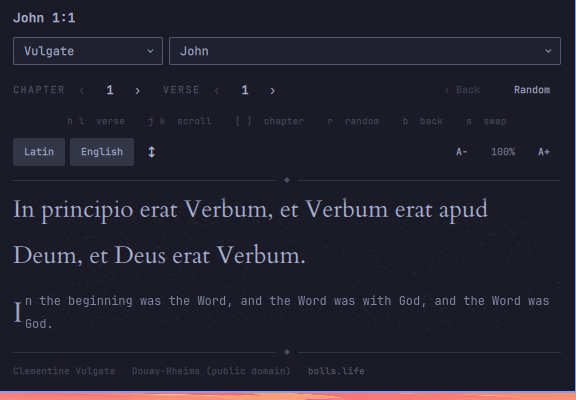
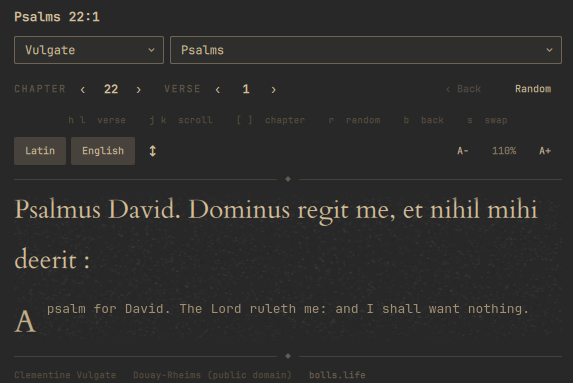
v2.6.0 — film-grain boil; fresh gallery
- The grain now re-scatters ~4×/second (over the slow drift) so the texture
  is visibly alive rather than just barely moving. Experimental — one Timer
  interval to tune.
- New screenshot set: the four corpora at different verses / zoom / theme
  (Isaiah, Matthew, Psalm 22, Al-Fatiha), and the theme gallery re-shot on
  Catppuccin / Nord / Kanagawa / Matte Black with different passages.
- manifest description now names all four corpora.

Claude-Session: https://claude.ai/code/session_01PoivGKMcuhRYmAzMxFYFkU

diff --git a/omarchy/Panel.qml b/omarchy/Panel.qml
@@ -1802,8 +1802,14 @@ Panel {
             onHeightChanged: requestPaint()
             Component.onCompleted: requestPaint()
 
-            // The paper never sits quite still — a very slow wander on two
-            // axes with different periods, plus a faint breath of opacity.
+            // Film-grain boil: re-scatter the speckle a few times a second so
+            // the texture is visibly alive, over a very slow two-axis drift.
+            Timer {
+              running: grain.visible
+              interval: 260
+              repeat: true
+              onTriggered: grain.requestPaint()
+            }
             transform: Translate { id: grainDrift }
             SequentialAnimation {
               running: grain.visible
@@ -1816,12 +1822,6 @@ Panel {
               loops: Animation.Infinite
               NumberAnimation { target: grainDrift; property: "y"; from: 6; to: -6; duration: 57000; easing.type: Easing.InOutSine }
               NumberAnimation { target: grainDrift; property: "y"; from: -6; to: 6; duration: 57000; easing.type: Easing.InOutSine }
-            }
-            SequentialAnimation on opacity {
-              running: grain.visible
-              loops: Animation.Infinite
-              NumberAnimation { from: 1.0; to: 0.82; duration: 9000; easing.type: Easing.InOutSine }
-              NumberAnimation { from: 0.82; to: 1.0; duration: 9000; easing.type: Easing.InOutSine }
             }
           }
 

diff --git a/README.md b/README.md
@@ -13,10 +13,10 @@ translation, one above the other:
 
 <table>
   <tr>
-    <td width="25%" valign="top"><img src="screenshots/corpus-tanakh.png" alt="Tanakh — Genesis 1:1"></td>
-    <td width="25%" valign="top"><img src="screenshots/corpus-nt.png" alt="New Testament — John 3:16"></td>
-    <td width="25%" valign="top"><img src="screenshots/corpus-vulgate.png" alt="Vulgate — John 1:1"></td>
-    <td width="25%" valign="top"><img src="screenshots/corpus-quran.png" alt="Quran — Al-Ikhlaas 1"></td>
+    <td width="25%" valign="top"><img src="screenshots/corpus-tanakh.png" alt="Tanakh — Isaiah 40:1"><br><sub>Tanakh · Isaiah 40:1</sub></td>
+    <td width="25%" valign="top"><img src="screenshots/corpus-nt.png" alt="New Testament — Matthew 5:8"><br><sub>New Testament · Matthew 5:8</sub></td>
+    <td width="25%" valign="top"><img src="screenshots/corpus-vulgate.png" alt="Vulgate — Psalms 22:1"><br><sub>Vulgate · Psalm 22:1</sub></td>
+    <td width="25%" valign="top"><img src="screenshots/corpus-quran.png" alt="Quran — Al-Fatiha 1"><br><sub>Quran · Al-Fatiha 1</sub></td>
   </tr>
 </table>
 
@@ -90,12 +90,12 @@ dark — so the dropdown always sits with the rest of the desktop.
 
 <table>
   <tr>
-    <td align="center"><img src="screenshots/everforest.jpg" alt="Everforest"><br><sub>Everforest</sub></td>
-    <td align="center"><img src="screenshots/gruvbox.jpg" alt="Gruvbox"><br><sub>Gruvbox</sub></td>
+    <td align="center"><img src="screenshots/theme-catppuccin.jpg" alt="Catppuccin"><br><sub>Catppuccin · Psalm 23</sub></td>
+    <td align="center"><img src="screenshots/theme-nord.jpg" alt="Nord"><br><sub>Nord · Vulgate, John 1</sub></td>
   </tr>
   <tr>
-    <td align="center"><img src="screenshots/tokyo-night.jpg" alt="Tokyo Night"><br><sub>Tokyo Night</sub></td>
-    <td align="center"><img src="screenshots/rose-pine.jpg" alt="Rose Pine"><br><sub>Rose Pine</sub></td>
+    <td align="center"><img src="screenshots/theme-kanagawa.jpg" alt="Kanagawa"><br><sub>Kanagawa · Quran, Al-Ikhlaas</sub></td>
+    <td align="center"><img src="screenshots/theme-matteblack.jpg" alt="Matte Black"><br><sub>Matte Black · Romans 8</sub></td>
   </tr>
 </table>
 
